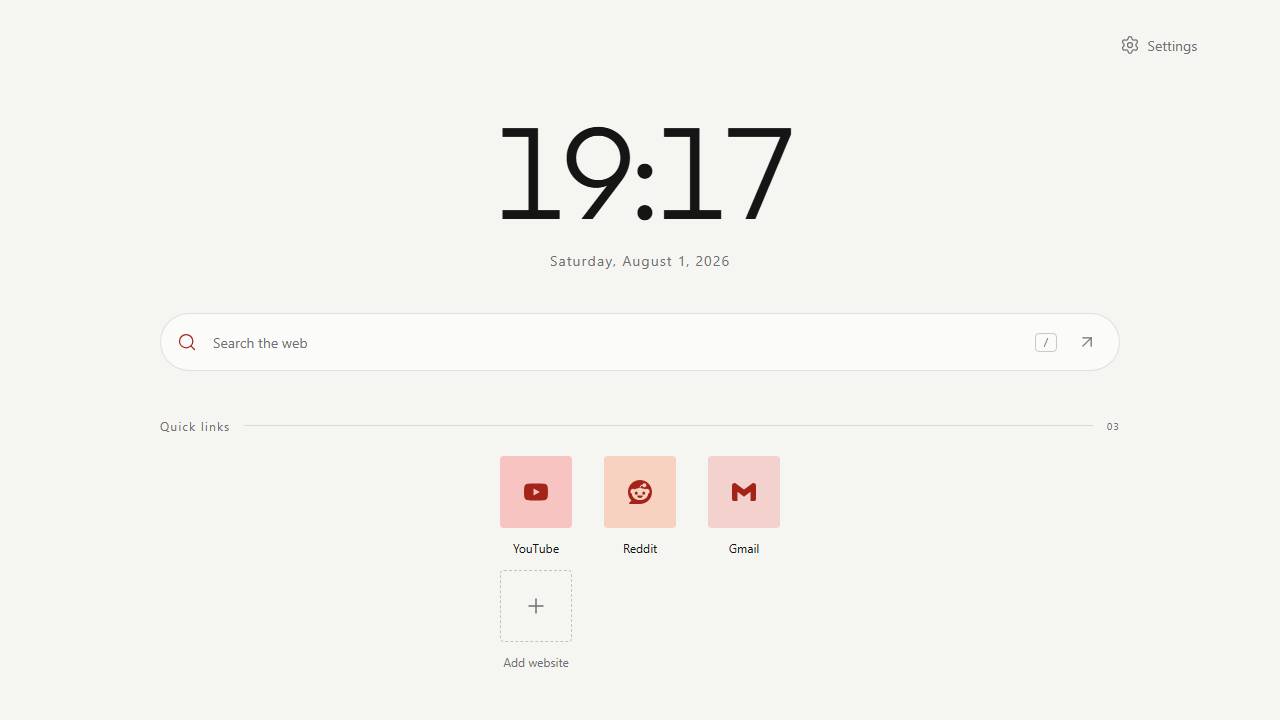
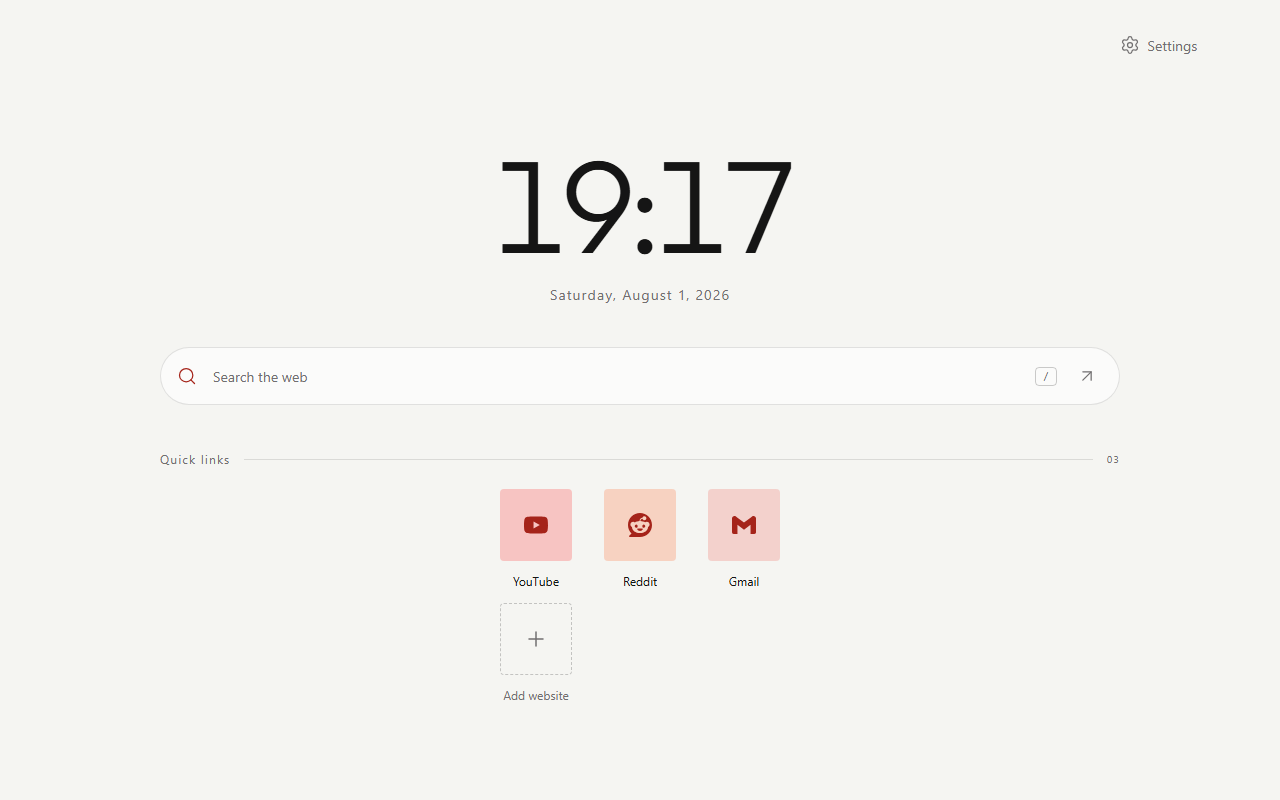
fix: finalize M8 release screenshots and dashboard gap

diff --git a/src/styles/layout.css b/src/styles/layout.css
@@ -64,7 +64,7 @@
   .mnt-layout[data-layout-template="banner"] .mnt-widget-toolbar button::before { content: none; }
   .mnt-layout[data-layout-template="banner"] .mnt-widget-toolbar { flex: 0 0 auto; justify-content: flex-end; }
   .mnt-layout[data-layout-template="banner"] [data-area="websites"] { display: grid; }
-  .mnt-layout[data-layout-template="dashboard"] { align-items: start; column-gap: max(var(--mnt-layout-gap), 16px); }
+  .mnt-layout[data-layout-template="dashboard"] { align-items: start; column-gap: max(var(--mnt-layout-gap), 16px); row-gap: max(var(--mnt-layout-gap), 24px); }
   .mnt-layout[data-layout-template="dashboard"] .mnt-area { align-self: start; }
   .mnt-layout[data-layout-template="dashboard"] [data-area="clock"] { text-align: center; }
   .mnt-weather { width: min(100%, 420px); margin-inline: auto; padding: var(--mnt-space-4); border: 1px solid var(--mnt-border); border-radius: var(--mnt-radius); background: color-mix(in oklch, var(--mnt-surface) 72%, transparent); color: var(--mnt-text); text-align: left; }

diff --git a/e2e/widget-layout.spec.ts b/e2e/widget-layout.spec.ts
@@ -42,6 +42,7 @@ for (const preset of ['Paper', 'Tide'] as const) {
     const cards = await Promise.all(['weather', 'note', 'todo'].map(type => page.locator(`[data-widget="${type}"]`).boundingBox()))
     expect(date!.y).toBeGreaterThanOrEqual(clock!.y + clock!.height - 1)
     expect(date!.y - (clock!.y + clock!.height)).toBeLessThan(20)
+    expect(cards[0]!.y - (date!.y + date!.height)).toBeGreaterThanOrEqual(24)
     const clockText = await page.locator('.clock').boundingBox()
     const dateText = await page.locator('.mnt-date').boundingBox()
     expect(Math.abs((clockText!.x + clockText!.width / 2) - (dateText!.x + dateText!.width / 2))).toBeLessThan(2)
